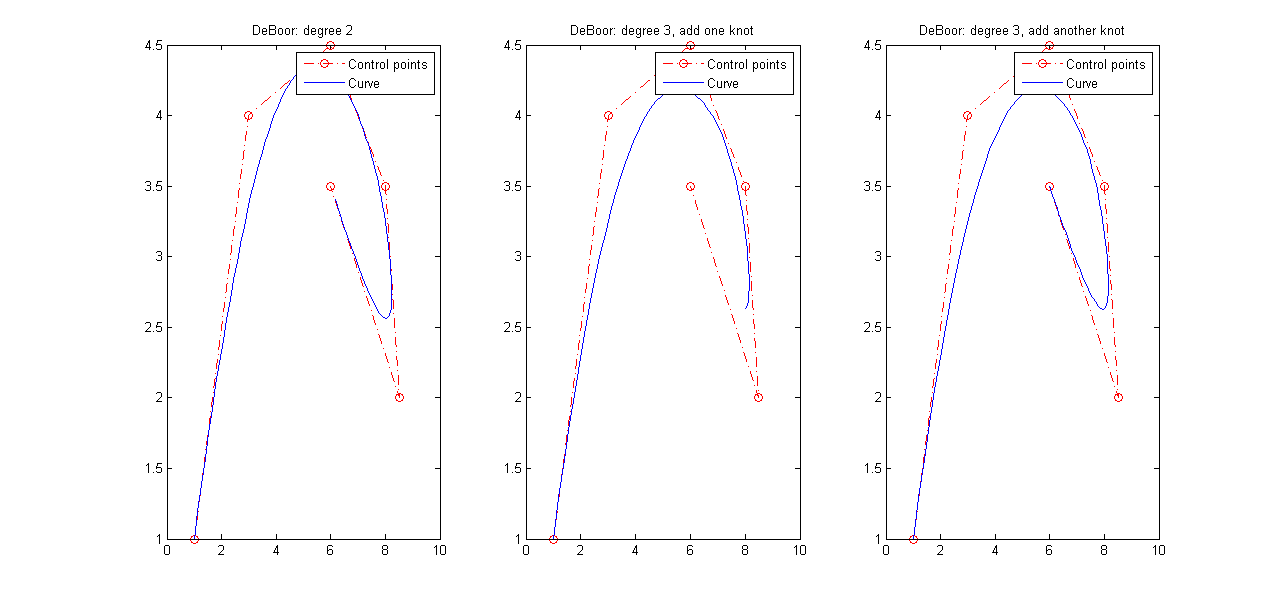
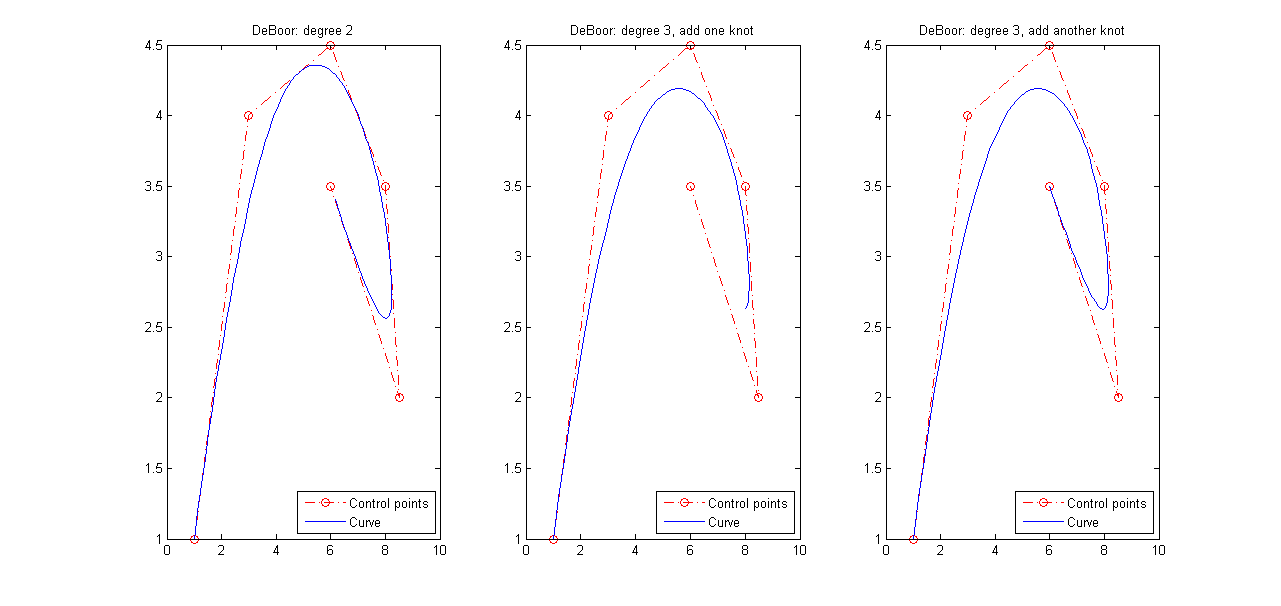
add curve to de boor scheme + fix legend pos

diff --git a/UE 2/illustrateDeBoor.m b/UE 2/illustrateDeBoor.m
@@ -1,9 +1,10 @@
-function [ bt ] = illustrateDeBoor( knots, n, d, u )
+function [ bt ] = illustrateDeBoor( knots, n, d, evalPoints, u )
 %DEBOOR Compute B-spline curve and  d using de Boor's algorithm
 % knots      ...    knot vector 
 % n          ...    degree
 % d          ...    control points
-% u          ...    evaluation parameter
+% evalPoints ...    parameter values where curve is evaluated
+% u          ...    evaluation parameter for illustration
 
 % Init
 dim = size(d, 1);
@@ -27,7 +28,7 @@ end
 
 % Draw control points
 figure
-plot(d(1,:), d(2,:), 'ro-.');
+p1 = plot(d(1,:), d(2,:), 'ro-.');
 hold on
 
 % Calculate deBoor points
@@ -43,11 +44,17 @@ for r = 1:n
     waitforbuttonpress();
     
     % Draw new points
-    plot(dBoor(1, l-n+r+1:l+1, r+1), dBoor(2, l-n+r+1:l+1, r+1), 'b*-');
+    p2 = plot(dBoor(1, l-n+r+1:l+1, r+1), dBoor(2, l-n+r+1:l+1, r+1), 'b*-');
     
 end
 
-legend('Control points', 'DeBoor points');
+% Draw entire curve
+title('Press a button or click to cotinue!')
+waitforbuttonpress();
+btAll = pureDeBoor(knots, n, d, evalPoints);
+p3 = plot(btAll(1,:), btAll(2,:), 'k:');
+
+legend([p1 p2 p3], 'Control points', 'DeBoor points', 'Spline curve');
 title('DeBoor Algorithm');
 hold off
 

diff --git a/UE 2/main.m b/UE 2/main.m
@@ -152,7 +152,7 @@ title('BSpline Basis uB, degree 2')
 % Illustrate the deBoor algorithm for one parameter
 knots = [0 0 0 0 0.3 0.5 0.7 1 1 1];
 control = [1 3 6 8 8.5 6; 1 4 4.5 3.5 2 3.5];
-illustrateDeBoor(knots, 3, control, 0.4);
+illustrateDeBoor(knots, 3, control, t, 0.4);
 
 % Example 1: degree 2
 knots = [0 0 0 0.3 0.5 0.7 1 1 1];
@@ -186,7 +186,7 @@ subplot(1,3,1)
 plot(control(1,:), control(2,:), 'ro-.');
 hold on
 plot(bt(1,:), bt(2,:));
-legend('Control points', 'Curve');
+legend('Control points', 'Curve', 'Location', 'southeast');
 title('DeBoor: degree 2');
 hold off
 
@@ -194,7 +194,7 @@ subplot(1,3,2)
 plot(control(1,:), control(2,:), 'ro-.');
 hold on
 plot(bt1(1,:), bt1(2,:));
-legend('Control points', 'Curve');
+legend('Control points', 'Curve', 'Location', 'southeast');
 title('DeBoor: degree 3, add one knot');
 hold off
 
@@ -202,7 +202,7 @@ subplot(1,3,3)
 plot(control2(1,:), control2(2,:), 'ro-.');
 hold on
 plot(bt2(1,:), bt2(2,:));
-legend('Control points', 'Curve');
+legend('Control points', 'Curve', 'Location', 'southeast');
 title('DeBoor: degree 3, add another knot');
 hold off
 
